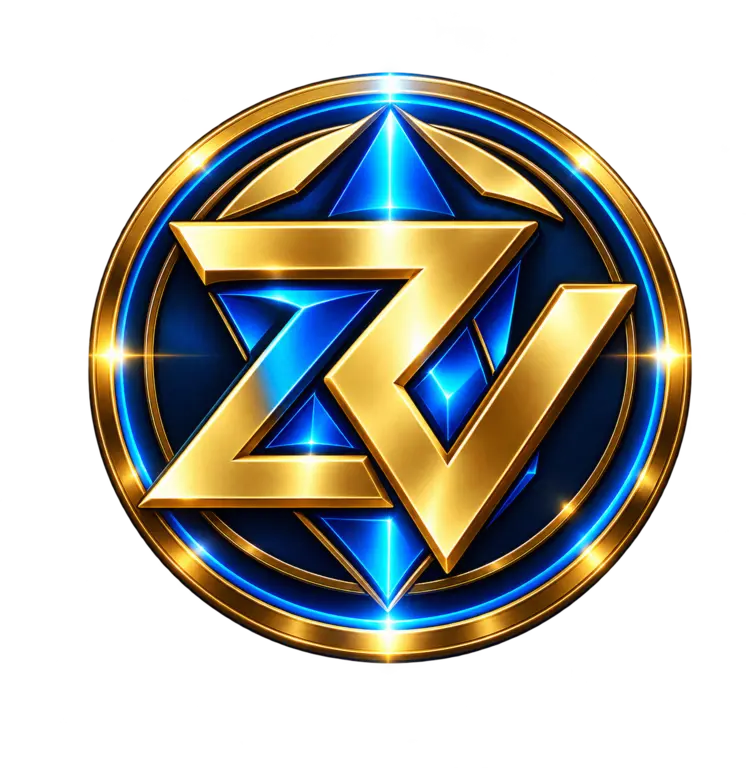
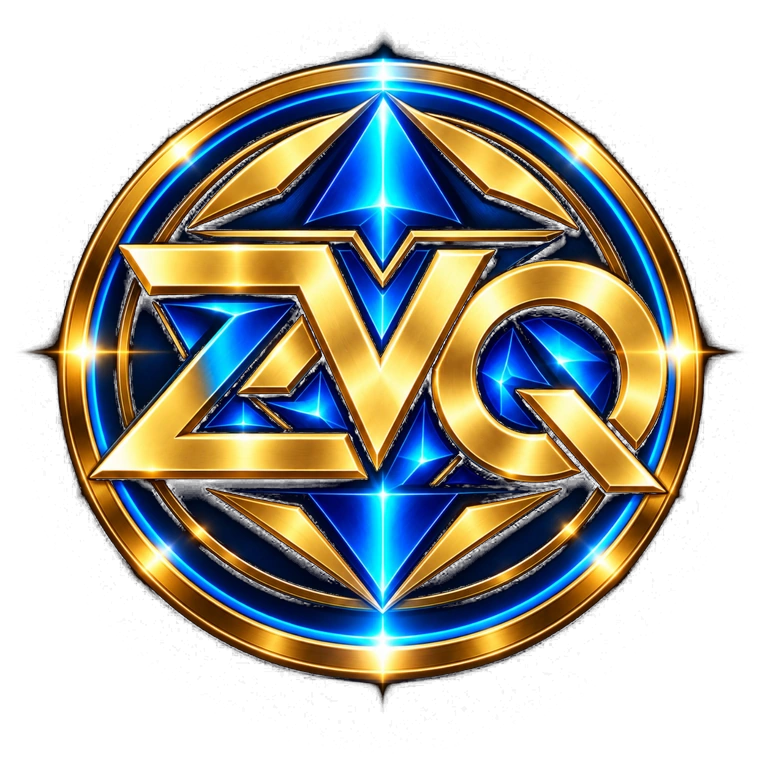
feat(explorer): install approved ZVQ gold-and-blue official emblem

diff --git a/explorer-dashboard/zevaryq-production.html b/explorer-dashboard/zevaryq-production.html
@@ -1,5 +1,5 @@
 <!doctype html>
-<html lang="en" data-zevaryq-explorer-version="1.1.2" data-zevaryq-features="immune-token-v1" data-zvq-reference-visual="blue-gold-orbital-20260924" data-zvq-token-discovery="indexed-v2">
+<html lang="en" data-zevaryq-explorer-version="1.1.2" data-zevaryq-features="immune-token-v1" data-zvq-reference-visual="blue-gold-orbital-20260924" data-zvq-token-discovery="indexed-v2" data-zvq-official-logo="20260924-goldblue-zvq">
 <head>
 <meta charset="utf-8">
 <meta name="viewport" content="width=device-width,initial-scale=1,viewport-fit=cover">
@@ -12,7 +12,7 @@
 <meta property="og:description" content="On-chain intelligence for Zevaryq Network · Chain ID 22028">
 <meta property="og:type" content="website">
 <meta property="og:url" content="https://explorer.kriptoaman.com/">
-<link rel="icon" type="image/png" sizes="192x192" href="/zevaryq-assets/zevaryq-favicon.png?v=1.1.0" data-zevaryq-favicon="premium-v1" data-origin-href="/zevaryq-assets/zevaryq-favicon.png?v=1.1.0">
+<link rel="icon" type="image/png" sizes="192x192" href="/zevaryq-assets/zevaryq-favicon.png?v=20260924-goldblue-zvq" data-zevaryq-favicon="premium-v1" data-origin-href="/zevaryq-assets/zevaryq-favicon.png?v=20260924-goldblue-zvq">
 <style>
 :root{--bg:#010612;--panel:rgba(5,19,42,.82);--panel2:rgba(2,10,25,.94);--line:rgba(34,171,255,.28);--cyan:#35dcff;--blue:#1678ff;--gold:#e8b84c;--green:#38e6a5;--red:#ff7385;--muted:#83a0bd;--text:#f2f8ff}
 *{box-sizing:border-box}html{background:var(--bg);scroll-behavior:smooth}body{margin:0;color:var(--text);font-family:Inter,ui-sans-serif,system-ui,-apple-system,"Segoe UI",sans-serif;background:radial-gradient(circle at 80% 2%,#092d68 0,transparent 32%),radial-gradient(circle at 10% 25%,rgba(201,151,42,.08),transparent 24%),linear-gradient(180deg,#010612,#031021 54%,#01050c);overflow-x:hidden}body:before{content:"";position:fixed;inset:0;pointer-events:none;background-image:linear-gradient(rgba(55,143,230,.03) 1px,transparent 1px),linear-gradient(90deg,rgba(55,143,230,.03) 1px,transparent 1px);background-size:48px 48px}a{color:inherit;text-decoration:none}.shell{width:min(1440px,calc(100% - 28px));margin:auto;padding:14px 0 40px}.glass{background:linear-gradient(145deg,var(--panel),var(--panel2));border:1px solid var(--line);box-shadow:0 24px 80px rgba(0,35,91,.3),inset 0 1px rgba(255,255,255,.03);backdrop-filter:blur(18px)}header{position:sticky;top:8px;z-index:20;border-radius:20px;padding:10px 14px;display:flex;align-items:center;gap:24px}.brand{display:flex;align-items:center;gap:11px;margin-right:auto}.logo{width:48px;height:48px;border-radius:14px;display:grid;place-items:center;border:1px solid rgba(71,201,255,.45);background:radial-gradient(circle at 30% 20%,#1357b5,#031126 64%);box-shadow:0 0 26px rgba(25,155,255,.25);font-weight:1000;color:var(--gold);font-size:18px;letter-spacing:-2px}.brand b{display:block;letter-spacing:.08em}.brand small{display:block;color:#75b8ef;margin-top:2px}.nav{display:flex;gap:5px}.nav a{padding:10px 12px;border:1px solid transparent;border-radius:11px;font-size:12px;color:#bdd0e3}.nav a:hover{border-color:var(--line);color:#fff}.mainnet{padding:9px 12px;border:1px solid rgba(56,230,165,.35);border-radius:999px;color:#83f8ce;font-size:11px;font-weight:900}.mainnet i{display:inline-block;width:8px;height:8px;border-radius:50%;background:var(--green);box-shadow:0 0 12px var(--green);margin-right:7px}.menu{display:none;border:1px solid var(--line);background:#07172e;color:white;border-radius:11px;width:44px;height:44px;font-size:20px}
@@ -119,11 +119,22 @@ header.glass{background:rgba(3,13,30,.96);border-radius:14px;padding:8px 13px;bo
 @media(max-width:355px){.brand b{font-size:10px}.brand small{font-size:8px}.card{padding-left:42px}.card:before{width:27px;height:30px;left:6px;font-size:16px}.card .value{font-size:15px}.scene-title{font-size:10px}}
 @media(prefers-reduced-motion:reduce){.reference-orbit-art{animation:none}.netdot{animation:none}}
 
+
+/* Approved official ZVQ image in header, hero and satellite network panel.
+   Only visual assets: chain, consensus, probes and routes are untouched. */
+.logo-zvq{position:relative;isolation:isolate;border:0!important;outline:0!important;background:transparent!important;box-shadow:none!important;color:transparent!important;letter-spacing:normal!important}
+.logo-zvq .official-emblem{width:100%;height:100%;display:block;object-fit:contain;filter:drop-shadow(0 0 7px rgba(43,172,255,.32))}
+.earth-brandmark{position:absolute;isolation:isolate;padding:0!important;border:0!important;outline:0!important;background:transparent!important;box-shadow:none!important;text-shadow:none!important;overflow:visible!important;font-size:0!important;letter-spacing:normal!important}
+.earth-brandmark .official-emblem{display:block;width:100%;height:100%;object-fit:contain;filter:drop-shadow(0 0 15px rgba(245,187,66,.37)) drop-shadow(0 0 22px rgba(32,146,255,.28))}
+.logo-zvq .official-logo-fallback,.earth-brandmark .official-logo-fallback{display:none}
+.official-emblem[hidden]+.official-logo-fallback{position:absolute;inset:0;display:grid;place-items:center;color:#ffd573;background:radial-gradient(circle,#10437b,#030f24 75%);border:2px solid #d5a54e;border-radius:50%;font-weight:900;letter-spacing:-.06em;text-shadow:0 0 10px rgba(245,187,66,.5)}
+.logo-zvq .official-logo-fallback{font-size:14px}
+.earth-brandmark .official-logo-fallback{font-size:clamp(21px,5vw,53px)}
 </style>
 </head>
 <body><div class="shell">
 <header class="glass">
-<a class="brand" href="/"><span class="logo logo-zvq" role="img" aria-label="ZEVARYQ ZVQ mark">ZVQ</span><span><b><span class="brand-gold">ZEVARYQ</span> <span class="brand-explorer">EXPLORER</span></b><small>Zevaryq Network</small></span></a>
+<a class="brand" href="/"><span class="logo logo-zvq" role="img" aria-label="ZEVARYQ ZVQ official gold and blue emblem"><img class="official-emblem" src="/zevaryq-assets/zevaryq-emblem.webp?v=20260924-goldblue-zvq" alt="" loading="eager" decoding="async" fetchpriority="high" onerror="this.hidden=true"><span class="official-logo-fallback" aria-hidden="true">ZVQ</span></span><span><b><span class="brand-gold">ZEVARYQ</span> <span class="brand-explorer">EXPLORER</span></b><small>Zevaryq Network</small></span></a>
 <nav class="nav" id="nav"><a href="/blocks">Blocks</a><a href="/txs">Transactions</a><a href="/validators">Validators</a><a href="/analytics">Analytics</a><a href="#token-discovery">Tokens</a><a href="/network">More</a></nav>
 <span class="mainnet" title="ZVQ network identity; operational readiness is displayed below"><i></i>MAINNET</span><button class="menu" id="menu" aria-label="Toggle navigation">☰</button>
 </header>
@@ -132,7 +143,7 @@ header.glass{background:rgba(3,13,30,.96);border-radius:14px;padding:8px 13px;bo
 <div><div class="eyebrow">ZEVARYQ NETWORK · ON-CHAIN INTELLIGENCE</div><h1>Explore the<span>Zevaryq Network.</span></h1><p>Verify every block, transaction, validator, and network signal directly from on-chain data.</p>
 <div class="badges"><span class="badge">Chain ID <b>22028</b></span><span class="badge"><b>ZVQ Mainnet</b></span><span class="badge">EVM Compatible</span><span class="badge">Verified On-Chain Data</span></div>
 <form class="search" id="search"><input id="q" autocomplete="off" placeholder="Search address / transaction hash / block number..." aria-label="Universal explorer search"><button>Explore →</button></form><div class="searchmsg" id="searchmsg"></div></div>
-<div class="space" aria-label="Satellite-inspired Earth illustration; operational data comes only from RPC and Blockscout"><svg class="reference-orbit-art" viewBox="0 0 560 420" preserveAspectRatio="xMidYMid meet" aria-hidden="true"><defs><linearGradient id="hero-orbit" x1="0" y1="0" x2="1" y2="1"><stop stop-color="#2194ff"/><stop offset=".52" stop-color="#ffd06b"/><stop offset="1" stop-color="#3ad9ff"/></linearGradient><radialGradient id="hero-flare"><stop stop-color="#fffde8"/><stop offset=".25" stop-color="#fbd071"/><stop offset="1" stop-color="#fbd071" stop-opacity="0"/></radialGradient></defs><g fill="none" stroke="url(#hero-orbit)" stroke-width="1.1" opacity=".83"><ellipse cx="290" cy="215" rx="256" ry="91" transform="rotate(-22 290 215)"/><ellipse cx="290" cy="215" rx="256" ry="91" transform="rotate(26 290 215)"/><ellipse cx="290" cy="215" rx="212" ry="175" transform="rotate(12 290 215)" opacity=".32"/><path d="M48 268Q156 54 446 100 M86 328Q265 92 525 225 M104 111Q312 336 509 139 M59 235Q317 395 516 172" opacity=".52"/></g><g stroke="#61bdff" stroke-width=".8" fill="none" opacity=".54"><path d="M170 73Q287 220 449 294 M114 244Q325 83 501 258 M99 318Q239 116 416 51 M245 44Q190 226 399 365"/></g><g><circle cx="88" cy="215" r="20.7" fill="url(#hero-flare)" opacity=".75"/><circle cx="88" cy="215" r="3" fill="#fff4cd"/><circle cx="142" cy="140" r="18.4" fill="url(#hero-flare)" opacity=".75"/><circle cx="142" cy="140" r="2.6666666666666665" fill="#fff4cd"/><circle cx="203" cy="80" r="16.099999999999998" fill="url(#hero-flare)" opacity=".75"/><circle cx="203" cy="80" r="2.3333333333333335" fill="#fff4cd"/><circle cx="316" cy="60" r="20.7" fill="url(#hero-flare)" opacity=".75"/><circle cx="316" cy="60" r="3" fill="#fff4cd"/><circle cx="436" cy="110" r="23" fill="url(#hero-flare)" opacity=".75"/><circle cx="436" cy="110" r="3" fill="#fff4cd"/><circle cx="486" cy="168" r="16.099999999999998" fill="url(#hero-flare)" opacity=".75"/><circle cx="486" cy="168" r="2.3333333333333335" fill="#fff4cd"/><circle cx="492" cy="289" r="23" fill="url(#hero-flare)" opacity=".75"/><circle cx="492" cy="289" r="3" fill="#fff4cd"/><circle cx="397" cy="357" r="16.099999999999998" fill="url(#hero-flare)" opacity=".75"/><circle cx="397" cy="357" r="2.3333333333333335" fill="#fff4cd"/><circle cx="292" cy="361" r="16.099999999999998" fill="url(#hero-flare)" opacity=".75"/><circle cx="292" cy="361" r="2.3333333333333335" fill="#fff4cd"/><circle cx="124" cy="319" r="20.7" fill="url(#hero-flare)" opacity=".75"/><circle cx="124" cy="319" r="3" fill="#fff4cd"/><circle cx="225" cy="271" r="16.099999999999998" fill="url(#hero-flare)" opacity=".75"/><circle cx="225" cy="271" r="2.3333333333333335" fill="#fff4cd"/><circle cx="366" cy="213" r="18.4" fill="url(#hero-flare)" opacity=".75"/><circle cx="366" cy="213" r="2.6666666666666665" fill="#fff4cd"/><circle cx="182" cy="185" r="11.5" fill="url(#hero-flare)" opacity=".75"/><circle cx="182" cy="185" r="1.6666666666666667" fill="#fff4cd"/><circle cx="462" cy="248" r="13.799999999999999" fill="url(#hero-flare)" opacity=".75"/><circle cx="462" cy="248" r="2" fill="#fff4cd"/></g></svg><div class="earth"><span class="earth-brandmark" role="img" aria-label="ZEVARYQ ZVQ">ZVQ</span></div><div class="orbit"></div><div class="orbit o2"></div><span class="sat s1"></span><span class="sat s2"></span><span class="sat s3"></span><i class="netdot d1"></i><i class="netdot d2"></i><i class="netdot d3"></i><div class="scene-title">ZEVARYQ NETWORK<small>POWERING THE KRIPTOAMAN ECOSYSTEM · ILLUSTRATIVE ORBITS</small></div></div>
+<div class="space" aria-label="Satellite-inspired Earth illustration; operational data comes only from RPC and Blockscout"><svg class="reference-orbit-art" viewBox="0 0 560 420" preserveAspectRatio="xMidYMid meet" aria-hidden="true"><defs><linearGradient id="hero-orbit" x1="0" y1="0" x2="1" y2="1"><stop stop-color="#2194ff"/><stop offset=".52" stop-color="#ffd06b"/><stop offset="1" stop-color="#3ad9ff"/></linearGradient><radialGradient id="hero-flare"><stop stop-color="#fffde8"/><stop offset=".25" stop-color="#fbd071"/><stop offset="1" stop-color="#fbd071" stop-opacity="0"/></radialGradient></defs><g fill="none" stroke="url(#hero-orbit)" stroke-width="1.1" opacity=".83"><ellipse cx="290" cy="215" rx="256" ry="91" transform="rotate(-22 290 215)"/><ellipse cx="290" cy="215" rx="256" ry="91" transform="rotate(26 290 215)"/><ellipse cx="290" cy="215" rx="212" ry="175" transform="rotate(12 290 215)" opacity=".32"/><path d="M48 268Q156 54 446 100 M86 328Q265 92 525 225 M104 111Q312 336 509 139 M59 235Q317 395 516 172" opacity=".52"/></g><g stroke="#61bdff" stroke-width=".8" fill="none" opacity=".54"><path d="M170 73Q287 220 449 294 M114 244Q325 83 501 258 M99 318Q239 116 416 51 M245 44Q190 226 399 365"/></g><g><circle cx="88" cy="215" r="20.7" fill="url(#hero-flare)" opacity=".75"/><circle cx="88" cy="215" r="3" fill="#fff4cd"/><circle cx="142" cy="140" r="18.4" fill="url(#hero-flare)" opacity=".75"/><circle cx="142" cy="140" r="2.6666666666666665" fill="#fff4cd"/><circle cx="203" cy="80" r="16.099999999999998" fill="url(#hero-flare)" opacity=".75"/><circle cx="203" cy="80" r="2.3333333333333335" fill="#fff4cd"/><circle cx="316" cy="60" r="20.7" fill="url(#hero-flare)" opacity=".75"/><circle cx="316" cy="60" r="3" fill="#fff4cd"/><circle cx="436" cy="110" r="23" fill="url(#hero-flare)" opacity=".75"/><circle cx="436" cy="110" r="3" fill="#fff4cd"/><circle cx="486" cy="168" r="16.099999999999998" fill="url(#hero-flare)" opacity=".75"/><circle cx="486" cy="168" r="2.3333333333333335" fill="#fff4cd"/><circle cx="492" cy="289" r="23" fill="url(#hero-flare)" opacity=".75"/><circle cx="492" cy="289" r="3" fill="#fff4cd"/><circle cx="397" cy="357" r="16.099999999999998" fill="url(#hero-flare)" opacity=".75"/><circle cx="397" cy="357" r="2.3333333333333335" fill="#fff4cd"/><circle cx="292" cy="361" r="16.099999999999998" fill="url(#hero-flare)" opacity=".75"/><circle cx="292" cy="361" r="2.3333333333333335" fill="#fff4cd"/><circle cx="124" cy="319" r="20.7" fill="url(#hero-flare)" opacity=".75"/><circle cx="124" cy="319" r="3" fill="#fff4cd"/><circle cx="225" cy="271" r="16.099999999999998" fill="url(#hero-flare)" opacity=".75"/><circle cx="225" cy="271" r="2.3333333333333335" fill="#fff4cd"/><circle cx="366" cy="213" r="18.4" fill="url(#hero-flare)" opacity=".75"/><circle cx="366" cy="213" r="2.6666666666666665" fill="#fff4cd"/><circle cx="182" cy="185" r="11.5" fill="url(#hero-flare)" opacity=".75"/><circle cx="182" cy="185" r="1.6666666666666667" fill="#fff4cd"/><circle cx="462" cy="248" r="13.799999999999999" fill="url(#hero-flare)" opacity=".75"/><circle cx="462" cy="248" r="2" fill="#fff4cd"/></g></svg><div class="earth"><span class="earth-brandmark" role="img" aria-label="ZEVARYQ ZVQ official gold and blue emblem"><img class="official-emblem" src="/zevaryq-assets/zevaryq-emblem.webp?v=20260924-goldblue-zvq" alt="" loading="eager" decoding="async" fetchpriority="auto" onerror="this.hidden=true"><span class="official-logo-fallback" aria-hidden="true">ZVQ</span></span></div><div class="orbit"></div><div class="orbit o2"></div><span class="sat s1"></span><span class="sat s2"></span><span class="sat s3"></span><i class="netdot d1"></i><i class="netdot d2"></i><i class="netdot d3"></i><div class="scene-title">ZEVARYQ NETWORK<small>POWERING THE KRIPTOAMAN ECOSYSTEM · ILLUSTRATIVE ORBITS</small></div></div>
 </section>
 <section class="strip"><div class="glass"><b>ZVQ Mainnet</b><small id="liveText">Connecting to verified RPC & Indexer…</small></div><div class="glass"><span class="label">Chain ID</span><span class="value">22028</span></div><div class="glass"><span class="label">Data trust</span><span class="value" id="trust" role="status" aria-live="polite">CONNECTING</span></div></section>
 <div class="probeBar glass" role="status" aria-live="polite"><div><span class="liveDot" aria-hidden="true"></span><b id="probeTitle">Establishing verified network connection</b><small id="probeDetails">Only verified blockchain data is displayed. No fabricated status or transactions.</small></div><button type="button" id="refreshData" aria-label="Refresh verified blockchain data">↻ Refresh now</button></div>
@@ -145,7 +156,7 @@ header.glass{background:rgba(3,13,30,.96);border-radius:14px;padding:8px 13px;bo
 <section class="section glass liveMeshSection"><div class="sectionhead"><div><h2>Live Blockchain Mesh</h2><p>Linked blocks are connected only when their on-chain parent hashes match.</p></div><span class="tag" id="meshStatus">Waiting for indexed blocks</span></div><div class="chainmesh" id="mesh" aria-live="polite"><span class="empty">Connecting to Blockscout indexer…</span></div><div class="meshLegend"><span><i class="legendNode verified"></i>Verified parent link</span><span><i class="legendNode pending"></i>Parent link unavailable</span><span>Source: Blockscout indexed headers</span></div></section>
 <section class="section glass" id="immune-monitor"><div class="sectionhead"><div><h2>Digital Immune Monitor</h2><p>Read-only observations from current RPC and indexed blockchain evidence</p></div><span class="tag" id="immune-checked">Awaiting live probes</span></div><div class="evidenceGrid" id="immune" aria-live="polite"></div><p class="evidenceNote">This observational dashboard cannot block attacks or guarantee network security. Unknown and stale sources are never reported as healthy.</p></section>
 <section class="satellite-row">
-<section class="section glass"><div class="sectionhead"><div><h2>Satellite Network View</h2><p>Illustrative network architecture · not live satellite telemetry</p></div><span class="tag">Illustrative visualization</span></div><div class="viz satview"><svg class="reference-orbit-art" viewBox="0 0 560 420" preserveAspectRatio="xMidYMid meet" aria-hidden="true"><defs><linearGradient id="satellite-orbit" x1="0" y1="0" x2="1" y2="1"><stop stop-color="#2194ff"/><stop offset=".52" stop-color="#ffd06b"/><stop offset="1" stop-color="#3ad9ff"/></linearGradient><radialGradient id="satellite-flare"><stop stop-color="#fffde8"/><stop offset=".25" stop-color="#fbd071"/><stop offset="1" stop-color="#fbd071" stop-opacity="0"/></radialGradient></defs><g fill="none" stroke="url(#satellite-orbit)" stroke-width="1.1" opacity=".83"><ellipse cx="290" cy="215" rx="256" ry="91" transform="rotate(-22 290 215)"/><ellipse cx="290" cy="215" rx="256" ry="91" transform="rotate(26 290 215)"/><ellipse cx="290" cy="215" rx="212" ry="175" transform="rotate(12 290 215)" opacity=".32"/><path d="M48 268Q156 54 446 100 M86 328Q265 92 525 225 M104 111Q312 336 509 139 M59 235Q317 395 516 172" opacity=".52"/></g><g stroke="#61bdff" stroke-width=".8" fill="none" opacity=".54"><path d="M170 73Q287 220 449 294 M114 244Q325 83 501 258 M99 318Q239 116 416 51 M245 44Q190 226 399 365"/></g><g><circle cx="88" cy="215" r="20.7" fill="url(#satellite-flare)" opacity=".75"/><circle cx="88" cy="215" r="3" fill="#fff4cd"/><circle cx="142" cy="140" r="18.4" fill="url(#satellite-flare)" opacity=".75"/><circle cx="142" cy="140" r="2.6666666666666665" fill="#fff4cd"/><circle cx="203" cy="80" r="16.099999999999998" fill="url(#satellite-flare)" opacity=".75"/><circle cx="203" cy="80" r="2.3333333333333335" fill="#fff4cd"/><circle cx="316" cy="60" r="20.7" fill="url(#satellite-flare)" opacity=".75"/><circle cx="316" cy="60" r="3" fill="#fff4cd"/><circle cx="436" cy="110" r="23" fill="url(#satellite-flare)" opacity=".75"/><circle cx="436" cy="110" r="3" fill="#fff4cd"/><circle cx="486" cy="168" r="16.099999999999998" fill="url(#satellite-flare)" opacity=".75"/><circle cx="486" cy="168" r="2.3333333333333335" fill="#fff4cd"/><circle cx="492" cy="289" r="23" fill="url(#satellite-flare)" opacity=".75"/><circle cx="492" cy="289" r="3" fill="#fff4cd"/><circle cx="397" cy="357" r="16.099999999999998" fill="url(#satellite-flare)" opacity=".75"/><circle cx="397" cy="357" r="2.3333333333333335" fill="#fff4cd"/><circle cx="292" cy="361" r="16.099999999999998" fill="url(#satellite-flare)" opacity=".75"/><circle cx="292" cy="361" r="2.3333333333333335" fill="#fff4cd"/><circle cx="124" cy="319" r="20.7" fill="url(#satellite-flare)" opacity=".75"/><circle cx="124" cy="319" r="3" fill="#fff4cd"/><circle cx="225" cy="271" r="16.099999999999998" fill="url(#satellite-flare)" opacity=".75"/><circle cx="225" cy="271" r="2.3333333333333335" fill="#fff4cd"/><circle cx="366" cy="213" r="18.4" fill="url(#satellite-flare)" opacity=".75"/><circle cx="366" cy="213" r="2.6666666666666665" fill="#fff4cd"/><circle cx="182" cy="185" r="11.5" fill="url(#satellite-flare)" opacity=".75"/><circle cx="182" cy="185" r="1.6666666666666667" fill="#fff4cd"/><circle cx="462" cy="248" r="13.799999999999999" fill="url(#satellite-flare)" opacity=".75"/><circle cx="462" cy="248" r="2" fill="#fff4cd"/></g></svg><div class="earth"><span class="earth-brandmark" role="img" aria-label="ZEVARYQ ZVQ">ZVQ</span></div><div class="orbit"></div><div class="orbit o2"></div><span class="sat s1"></span><span class="sat s2"></span><span class="sat s3"></span><div class="viznote">No claim of owned physical satellites or ground infrastructure.</div></div><div class="statsrow" id="satstats"></div></section>
+<section class="section glass"><div class="sectionhead"><div><h2>Satellite Network View</h2><p>Illustrative network architecture · not live satellite telemetry</p></div><span class="tag">Illustrative visualization</span></div><div class="viz satview"><svg class="reference-orbit-art" viewBox="0 0 560 420" preserveAspectRatio="xMidYMid meet" aria-hidden="true"><defs><linearGradient id="satellite-orbit" x1="0" y1="0" x2="1" y2="1"><stop stop-color="#2194ff"/><stop offset=".52" stop-color="#ffd06b"/><stop offset="1" stop-color="#3ad9ff"/></linearGradient><radialGradient id="satellite-flare"><stop stop-color="#fffde8"/><stop offset=".25" stop-color="#fbd071"/><stop offset="1" stop-color="#fbd071" stop-opacity="0"/></radialGradient></defs><g fill="none" stroke="url(#satellite-orbit)" stroke-width="1.1" opacity=".83"><ellipse cx="290" cy="215" rx="256" ry="91" transform="rotate(-22 290 215)"/><ellipse cx="290" cy="215" rx="256" ry="91" transform="rotate(26 290 215)"/><ellipse cx="290" cy="215" rx="212" ry="175" transform="rotate(12 290 215)" opacity=".32"/><path d="M48 268Q156 54 446 100 M86 328Q265 92 525 225 M104 111Q312 336 509 139 M59 235Q317 395 516 172" opacity=".52"/></g><g stroke="#61bdff" stroke-width=".8" fill="none" opacity=".54"><path d="M170 73Q287 220 449 294 M114 244Q325 83 501 258 M99 318Q239 116 416 51 M245 44Q190 226 399 365"/></g><g><circle cx="88" cy="215" r="20.7" fill="url(#satellite-flare)" opacity=".75"/><circle cx="88" cy="215" r="3" fill="#fff4cd"/><circle cx="142" cy="140" r="18.4" fill="url(#satellite-flare)" opacity=".75"/><circle cx="142" cy="140" r="2.6666666666666665" fill="#fff4cd"/><circle cx="203" cy="80" r="16.099999999999998" fill="url(#satellite-flare)" opacity=".75"/><circle cx="203" cy="80" r="2.3333333333333335" fill="#fff4cd"/><circle cx="316" cy="60" r="20.7" fill="url(#satellite-flare)" opacity=".75"/><circle cx="316" cy="60" r="3" fill="#fff4cd"/><circle cx="436" cy="110" r="23" fill="url(#satellite-flare)" opacity=".75"/><circle cx="436" cy="110" r="3" fill="#fff4cd"/><circle cx="486" cy="168" r="16.099999999999998" fill="url(#satellite-flare)" opacity=".75"/><circle cx="486" cy="168" r="2.3333333333333335" fill="#fff4cd"/><circle cx="492" cy="289" r="23" fill="url(#satellite-flare)" opacity=".75"/><circle cx="492" cy="289" r="3" fill="#fff4cd"/><circle cx="397" cy="357" r="16.099999999999998" fill="url(#satellite-flare)" opacity=".75"/><circle cx="397" cy="357" r="2.3333333333333335" fill="#fff4cd"/><circle cx="292" cy="361" r="16.099999999999998" fill="url(#satellite-flare)" opacity=".75"/><circle cx="292" cy="361" r="2.3333333333333335" fill="#fff4cd"/><circle cx="124" cy="319" r="20.7" fill="url(#satellite-flare)" opacity=".75"/><circle cx="124" cy="319" r="3" fill="#fff4cd"/><circle cx="225" cy="271" r="16.099999999999998" fill="url(#satellite-flare)" opacity=".75"/><circle cx="225" cy="271" r="2.3333333333333335" fill="#fff4cd"/><circle cx="366" cy="213" r="18.4" fill="url(#satellite-flare)" opacity=".75"/><circle cx="366" cy="213" r="2.6666666666666665" fill="#fff4cd"/><circle cx="182" cy="185" r="11.5" fill="url(#satellite-flare)" opacity=".75"/><circle cx="182" cy="185" r="1.6666666666666667" fill="#fff4cd"/><circle cx="462" cy="248" r="13.799999999999999" fill="url(#satellite-flare)" opacity=".75"/><circle cx="462" cy="248" r="2" fill="#fff4cd"/></g></svg><div class="earth"><span class="earth-brandmark" role="img" aria-label="ZEVARYQ ZVQ official gold and blue emblem"><img class="official-emblem" src="/zevaryq-assets/zevaryq-emblem.webp?v=20260924-goldblue-zvq" alt="" loading="eager" decoding="async" fetchpriority="auto" onerror="this.hidden=true"><span class="official-logo-fallback" aria-hidden="true">ZVQ</span></span></div><div class="orbit"></div><div class="orbit o2"></div><span class="sat s1"></span><span class="sat s2"></span><span class="sat s3"></span><div class="viznote">No claim of owned physical satellites or ground infrastructure.</div></div><div class="statsrow" id="satstats"></div></section>
 <div class="section glass"><div class="sectionhead"><div><h2>Infrastructure Status</h2><p>States originate from current public probes</p></div></div><div class="health" id="infra"></div></div>
 </section>
 <section class="triad-secondary">
